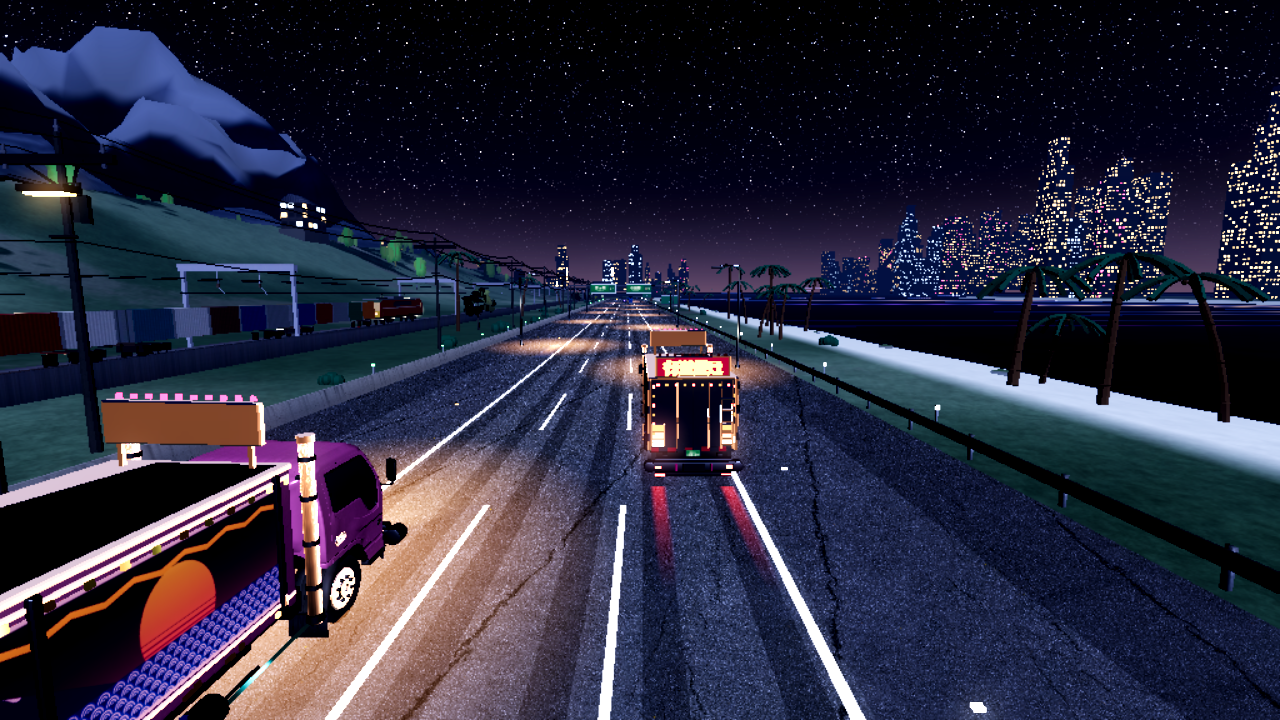
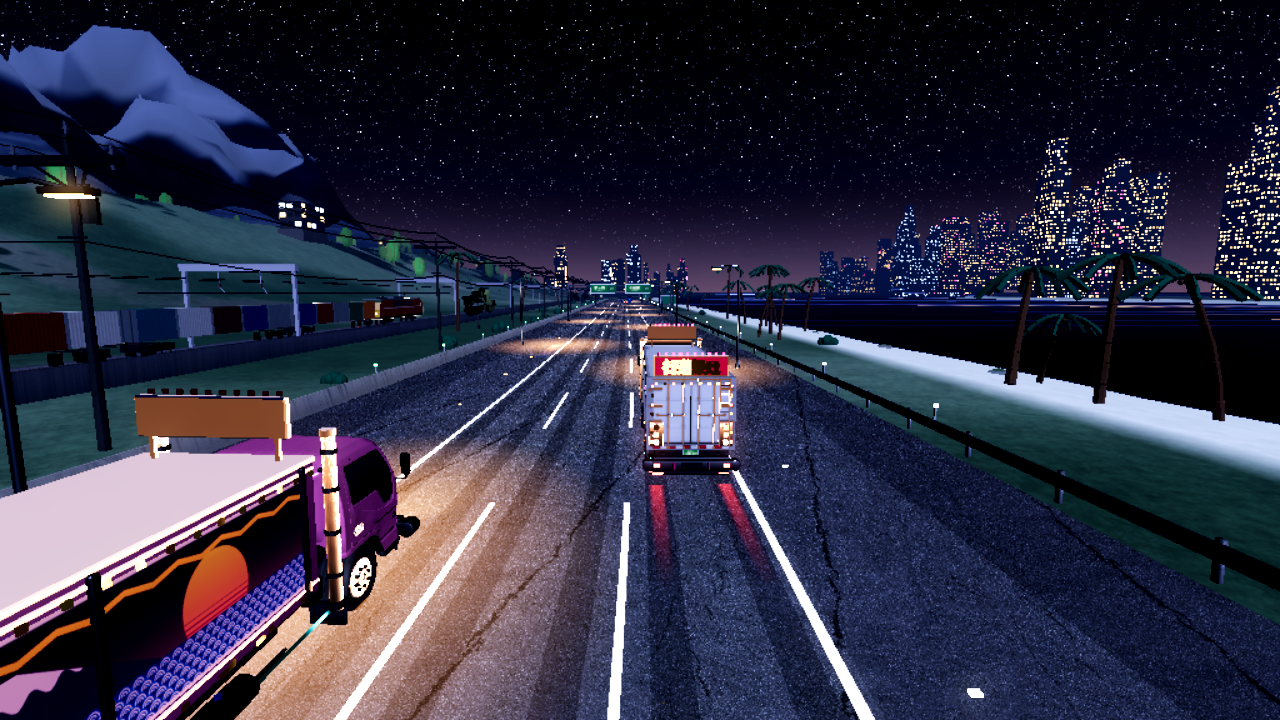
T-189: capturas media x Ultra, FPS medido, docs e ajustes finais
- docs/capturas_t189: 3 rotas dia e noite (esquerda media/Compatibility, direita Ultra) + custo.txt
- insetos menores e so de perto; borrao de velocidade mais suave; --no-motion-blur
- project.godot: o editor tirou rendering_method (padrao do Godot = Forward+); mobile segue gl_compatibility
- DECISOES, STATUS, ROADMAP, AUDIO_ELEVENLABS (7 sons de ambiente a gerar), skill godot-dekotora, LOG

diff --git a/docs/DECISOES.md b/docs/DECISOES.md
@@ -577,3 +577,37 @@ Marco aprovou: fumaça por 12 s, triângulo 9 m atrás (após 3 s), freada de 9 
 - **Personalização (T-190, docs/REFERENCIA_PERSONALIZACAO.md)**: cada lado do baú pode ter mural diferente; a loja terá **temas prontos** (Retrô, Kansai, Kanto, Gundam) além das peças soltas; **mestre da oficina** que conversa e dá dicas (texto); origem dos murais figurativos **em aberto** (IA, código/Blender ou arte livre); peças ficam para depois (algumas serão trocadas, outras acrescentadas).
 - **Ideia de câmera/retrovisor (Marco)**: retrovisor para ver o rival atrás e câmeras de corrida estilo cinema (longe, média, com zoom). Registrada para o futuro; ainda não é tarefa.
 - **Andon (texto)**: pendente de explicação ao Marco (é a placa luminosa do teto da cabine com texto, ex.: 一番星).
+
+## 2026-10-22 — T-189: PC com Forward+ e qualidade Ultra; celular continua Compatibility; vida do cenário
+- **Renderizador por plataforma**: PC = **Forward+** (`renderer/rendering_method`; é o padrão do Godot 4.7, por isso o
+  editor apaga a linha do `project.godot` ao salvar: sem a linha = Forward+); celular = **Compatibility**
+  (`rendering_method.mobile`, inalterado). O export Windows usa o do PC, o Android o `.mobile`. PC sem Vulkan cai sozinho
+  para Compatibility e o Ultra some das Opções.
+- **Qualidade Ultra** (`Settings.quality = 3`, `road3d/ultra_look.gd`): só existe com Forward+ (`UltraLook.available()`);
+  no celular a qualidade é limitada a Alta e nada do Ultra roda. Liga: SDFGI (luz rebatida; VoxelGI não serve porque o
+  cenário é gerado na hora), SSAO + SSIL, SSR, sombra suave do sol em 4 cortes (atlas 8192, 260 m), **FSR2 na
+  resolução nativa** como antisserrilhado temporal (escolhido no lugar do TAA puro: mais nítido), glow mais forte,
+  névoa volumétrica por hora (raios de sol no amanhecer/entardecer, halo nos postes à noite), profundidade de campo
+  leve só na abertura do duelo, borrão de velocidade opcional (`fx_motion_blur`, desligado; o Godot 4 não tem motion
+  blur de verdade: é um borrão radial nas bordas acima de ~80 km/h).
+- **Cor por hora do dia** (`road3d/color_grade.gd`): LUT 3D (33³) em `adjustment_color_correction`, só no Ultra:
+  amanhecer dourado, dia vívido/saturado, entardecer laranja/rosa, noite azul com neon. **Não existe amanhecer em
+  nenhuma rota**: criei `data/time/dawn.tres` só para `--time=dawn` (decisão do Marco: usar em alguma rota?).
+- **PC começa no Ultra**: instalação nova com Forward+ abre em Ultra; quem tinha Alta salvo sobe UMA vez para Ultra
+  (chave `graphics/version = 2` no `settings.cfg`). Pode voltar em Opções.
+- **Vida do cenário** (`Settings.fx_life`, "Vida do cenário" nas Opções; **desligada por padrão no celular**, ligada no
+  PC), tudo só visual, determinístico por rota, fora da simulação e da rede, nunca obstáculo (`road3d/race_life.gd`):
+  vento nas árvores/palmeiras/arbustos (cópia da malha com balanço no shader, sem mexer nos construtores), folhas
+  caindo, bandos de pássaros de dia (gaivotas no litoral), chaminés de fábrica vermelho/branco com fumaça (litoral e
+  cidade) e fumaça de vila (montanha), vapor de bueiro no acostamento, insetos nos postes à noite, sombras de nuvem
+  (Decal; só Forward+), carros nos dois sentidos e pessoas nas calçadas das ruas da cidade ao lado do viaduto (trecho
+  da T-188), buzina distante e ronco dos trens da T-154, som ambiente por bioma (cigarras, mar, cidade, sapos/grilos,
+  pássaros; arquivo ausente = pulado; prompts em `docs/AUDIO_ELEVENLABS.md` seção 8).
+- **Trânsito "do outro lado do canteiro"**: a rodovia do jogo **não tem pista contrária** (só 3 faixas num sentido,
+  com mureta dos dois lados; postes e árvores ficam onde ela estaria). Não inventei a pista contrária: o trânsito
+  contrário entrou onde já existe rua (cidade). **Decisão pendente do Marco** (ver resposta da T-189).
+- **Chuva** (`fx_rain`, opcional, já existia): agora com céu cinza, pista mais molhada (no Ultra reflete as luzes),
+  spray atrás de cada caminhão pela velocidade e respingos na pista (`road3d/rain_fx.gd`), som `amb_rain_loop` quando
+  existir. Vale também no celular (só se o jogador ligar, como antes).
+- **Custo medido** (RX 580, 1920×1080, sem vsync; `tools/measure_t189.sh`): ver `docs/capturas_t189/custo.txt`.
+  Celular **não medido** (sem aparelho).

diff --git a/docs/STATUS.md b/docs/STATUS.md
@@ -28,8 +28,9 @@ Atualize ao fim de CADA tarefa. Leia antes: `CLAUDE.md`, `docs/AGENTES.md`, `doc
 | Abertura frente a frente (T-156) | corrida da campanha normal (Continuar) mostra a cena; forçar `-- --route=kanto_2_viaduct --intro=full\|short\|none`; capturas `GODOT=... bash tools/capture_t156.sh PASTA [dia noite tarde curta comboio]`; custo `bash tools/measure_t156.sh` (`MEASURE_EXTRA="--intro=none"` compara); duelo sem tela `godot --headless --path game -s res://tools_dev/measure_duel.gd [-- --seeds=6]` |
 | Biblioteca de cenário (T-186) | inventário `bash tools/inventory_models.sh`; corrida com as árvores/postes/pessoas novas é a normal; antigo: `-- --old-trees --old-lamps --no-people`; `--no-tree-lod`; prints com a câmera livre sem teclado `GODOT=... bash tools/capture_t186.sh PASTA [extras]` (`--freecam --freecam-tour=PASTA --tour=nome@km,lat,alt,giro,incl;...`); custo `bash tools/measure_t186.sh [quadros] [day|night]` (`MEASURE_EXTRA="--old-trees --old-lamps --no-people"`); folha dos modelos `godot --path game --resolution 640x480 -s res://tools_dev/model_sheet_t186.gd -- --out=PASTA_ABS`; contagem de árvores `-s res://tools_dev/probe_groves.gd`; testes `-- --only=scenery_t186`; detalhes em `docs/BIBLIOTECA_CENARIO.md` |
 | Cenário novo no trecho-piloto (T-188, etapa 1) | já liga na corrida normal (litoral km 0,6–1,6; cidade 1,3–2,05; montanha 1,1–2,05): `-- --route=kanto_3_mountain --start=1150 --time=night`; antigo `-- --t188=off`; prints `GODOT=... bash tools/capture_t188.sh PASTA [day night] [-- extras]` + folhas `bash tools/sheet_t188.sh` (em `docs/capturas_t188/`); custo `bash tools/measure_t188.sh [quadros] [day ou night]` (`MEASURE_EXTRA="--t188=off"`); texturas `blender -b --factory-startup -P blender/scripts/build_t188_textures.py` e `godot --path game -s res://tools_dev/make_neon_atlas.gd` (janela); testes `-- --only=scenery_t188`; no log aparece `SCENIC_T188 ...` |
+| PC Ultra + vida do cenário (T-189) | PC abre em Forward+/Ultra; Opções > Gráficos: Qualidade (Ultra só no PC), "Vida do cenário", "Borrão de velocidade", "Chuva"; forçar `-- --quality=3`, `--life=off\|on`, `--rain`/`--no-rain`, `--motion-blur`, `--time=dawn`; média como no celular: `godot --path game --rendering-method gl_compatibility ... -- --quality=1 --life=off`; prints `GODOT=... bash tools/capture_t189.sh PASTA [day night]` (em `docs/capturas_t189/`, folhas `folha_day/night.png`: esquerda média, direita Ultra); FPS `bash tools/measure_t189.sh [quadros] [day\|night] [1920x1080]`; testes `-- --only=ultra_look` e `-- --only=race_life`; no log `LIFE_T189 ...` |
 | Câmera livre / explorador (T-181) | `godot --path game res://scenes/race/race3d.tscn -- --route=kanto_3_mountain --freecam` (já abre nela) ou F1 dentro da corrida; comandos na seção "Câmera livre" abaixo; testes `-- --only=freecam` |
-| Testes automáticos (375) | `godot --headless --path game -s res://tests/run_tests.gd` (código de saída 0 = passou) |
+| Testes automáticos (387) | `godot --headless --path game -s res://tests/run_tests.gd` (código de saída 0 = passou) |
 | Garagem: prévia e pneus (T-171) | `-- --demo --noparts --preview=fb_gold_wing` (peça em prévia), `--preview-paint=#f0b83a --fame=0` (cor travada); capturas `bash tools/capture_t171_preview.sh PASTA`, pneus `bash tools/capture_t171.sh PASTA [wheel\|side\|default]` + `bash tools/sheet_t171.sh`; medida dos pneus `godot --headless --path game -s res://tools_dev/measure_wheel_ground.gd` |
 | Jogo (menu) | `godot --path game` |
 | Corrida direto | `godot --path game res://scenes/race/race3d.tscn` (WASD/setas, Espaço = Passing, Esc = pausa) |

diff --git a/.claude/coordenacao/LOG.md b/.claude/coordenacao/LOG.md
@@ -340,3 +340,10 @@ Formato em `docs/AGENTES.md`.
 - Feito: notas da T-188 nas duas skills (opção `--t188`, `capture/sheet/measure_t188.sh`, teste `scenery_t188`, linha `SCENIC_T188`, duas armadilhas; comando `build_t188_textures.py` e `fix_alpha_border=false`). Commit 1e89321.
 - Arquivos: .claude/skills/godot-dekotora/SKILL.md, .claude/skills/blender-pixelart/SKILL.md
 - Observação: a linha `SCENIC_T188` sai no console (print em `scenic_stretch.gd`), não em arquivo de log. Commit usou trailer Co-Authored-By: Claude Haiku 5.5 (modelo real deste agente); a tarefa pedia Sonnet 5.5. `game/project.godot` está modificado no working tree e não foi tocado por mim.
+
+## 2026-10-22 00:55 · T-189 · especialista · CONCLUÍDA (com decisões pendentes)
+- Feito: PC em Forward+ (celular segue Compatibility); qualidade Ultra (SDFGI, SSAO+SSIL, SSR, sombra suave 4 cortes, FSR2 nativo, glow forte, névoa volumétrica, DOF na abertura, borrão de velocidade opcional, LUT por hora); vida do cenário (vento, folhas, pássaros, chaminés/fumaça, vapor, insetos, sombras de nuvem, carros e pessoas nas ruas da cidade, buzina dos trens, som ambiente por bioma); chuva com spray/respingos/céu cinza. Commits deefe03, c7cd92b, 22a08e6, bd201ad + docs.
+- Arquivos: game/scripts/road3d/{ultra_look,color_grade,speed_blur,race_life,life_*,cloud_shadows,rain_fx}.gd, settings.gd, options_panel.gd, world_env.gd, race_scene_3d.gd, data/time/dawn.tres, tools/{capture,measure}_t189.sh, docs/capturas_t189/
+- Validação: 387 testes ok; capturas média×Ultra 3 rotas dia/noite; FPS 1920×1080 RX 580: Ultra 56–61, média (Compatibility) 243–276; export-pack Android ok (pack com rendering_method.mobile e texturas ETC2/ASTC). Celular não medido.
+- Decisão pendente: pista contrária não existe na rodovia (criar? onde?); usar o amanhecer (dawn) em alguma rota?; 7 sons de ambiente para o Marco gerar (AUDIO_ELEVENLABS seção 8).
+- Armadilhas: o editor apaga `renderer/rendering_method` do project.godot (é o padrão = Forward+); captura às vezes trava/não grava com a tela do PC desligada (scripts têm timeout e nova tentativa); opções salvas do Marco (chuva, borrão) vazam nas capturas: passar --no-rain --no-motion-blur.

diff --git a/docs/AUDIO_ELEVENLABS.md b/docs/AUDIO_ELEVENLABS.md
@@ -222,3 +222,22 @@ Mapa no código: `ExhaustDef.sound_profile` (`game/data/engines/exh_*.tres`) e `
 
 ## Chave da API
 A chave fica em `.chaves.env` (raiz do projeto, fora do git) na variavel `ELEVENLABS_API_KEY`. Nunca escreva o valor em docs ou commits.
+
+## 8. Ambiente por bioma e chuva — T-189 (`game/assets/audio/sfx/ambient/`)
+
+Ainda **faltam** (o jogo funciona sem eles: o som é pulado; a cidade usa `highway_night_loop` até chegar o dela).
+Todos são loops: gere 20–30 s, sem começo/fim marcado, volume constante. O nome precisa terminar em `_loop`.
+Use "Sound Effects" do ElevenLabs, duração máxima, "Prompt influence" alto.
+
+| Arquivo | Duração | Prompt |
+| --- | --- | --- |
+| `amb_cicadas_day_loop.mp3` | 25 s | Loopable ambience of Japanese summer cicadas (minminzemi and aburazemi) in a mountain forest, steady dense chorus, distant, no wind, no voices, no music |
+| `amb_sea_waves_loop.mp3` | 25 s | Loopable ambience of gentle ocean waves on a sandy beach heard from a coastal highway, soft surf and wash, distant seagulls very faint, no voices, no music |
+| `amb_city_day_loop.mp3` | 25 s | Loopable daytime Japanese city ambience heard from an elevated expressway, distant traffic hum, faint crosswalk chime, far construction, no clear voices, no music |
+| `amb_city_night_loop.mp3` | 25 s | Loopable night Japanese city ambience under an elevated expressway, low traffic hum, distant train, faint neon buzz, no clear voices, no music |
+| `amb_night_frogs_crickets_loop.mp3` | 25 s | Loopable summer night ambience in Japanese rice fields, frogs croaking and crickets chirping, calm, distant, no wind, no voices, no music |
+| `amb_birds_day_loop.mp3` | 25 s | Loopable daytime countryside ambience, small birds chirping in trees, occasional distant crow, calm, no wind, no voices, no music |
+| `amb_rain_loop.mp3` | 25 s | Loopable steady medium rain on asphalt and on a truck roof, close and wide, light splashes, no thunder, no music |
+
+Já existem e passaram a tocar (T-189): `train_horn.mp3` (buzina distante quando um trem entra no alcance) e
+`train_pass.mp3` (passagem perto), ambos posicionais.

diff --git a/.claude/skills/godot-dekotora/SKILL.md b/.claude/skills/godot-dekotora/SKILL.md
@@ -350,3 +350,17 @@ Leia também `docs/ARQUITETURA.md` (estrutura) e `CLAUDE.md` (regras). Esta skil
 - **Armadilha 2 (cores do terreno)**: as cores do shader do terreno (`scenic_shaders.gd`, `TERRAIN`) precisam ser bem escuras, porque as cores são sRGB. A noite também precisa do `night_lift` (uniform do shader, luz de lua), porque o céu noturno é escuro demais para iluminar o terreno.
 
 
+
+## PC Forward+ / Ultra e vida do cenário (T-189)
+
+- PC = Forward+ (padrão do 4.7: o editor APAGA `renderer/rendering_method` do `project.godot`; sem a linha = Forward+),
+  celular = `rendering_method.mobile="gl_compatibility"`. Tudo que é só Forward+ (SDFGI, SSR, névoa volumétrica, Decal,
+  FSR2) passa por `UltraLook.available()` / `UltraLook.active(q)` (`road3d/ultra_look.gd`). Qualidade 3 = Ultra.
+- Simular o celular no PC: `godot --path game --rendering-method gl_compatibility ... -- --quality=1 --life=off`.
+- Vida do cenário: `road3d/race_life.gd` (atrás de `Settings.fx_life`, desligado no celular por padrão). Nunca entra na
+  sim nem na rede. Novo efeito de partícula: pool perto do jogador (`LifeEmitters`), não um emissor por fonte.
+- Vento: `LifeWind.apply(roadside)` troca a malha de cada MultiMesh de árvore por uma CÓPIA com shader (o .glb em cache
+  fica intacto). Não chame funções de `convert` etc.: `convert` é função global do GDScript (erro de parse).
+- `--rain`/`--no-rain`, `--life=on|off`, `--motion-blur` (não gravam). As opções salvas no PC do Marco podem ter chuva
+  ligada: nas capturas passe `--no-rain`.
+- Captura que às vezes não grava nenhum quadro: rode de novo (o `tools/capture_t189.sh` já tenta 2 vezes).

diff --git a/docs/ROADMAP.md b/docs/ROADMAP.md
@@ -92,6 +92,7 @@ O número entre colchetes é o prompt em `PROMPTS.md`. Claude marca `[x]` ao con
 - [x] [V6] Cromo por matcap
 - [x] [V7] Caminhão com cara de Dekotora (luzes, andons, mural trocável)
 - [x] [T-106] Cabine realista (portas, vidros curvos, para-lamas, degraus, faróis e grade com perfil) + texturas por código (sujeira, normal, colmeia, pneu)
+- [x] [T-189] PC em Forward+ com qualidade Ultra (SDFGI, SSR, névoa volumétrica, LUT por hora) + vida do cenário; celular segue Compatibility (não medido no aparelho)
 - [ ] [V8] Medir no celular — PRECISA MARCO (Android SDK + JDK 17 para gerar o APK)
 
 ## Fase 8 — Publicação (opcional)
